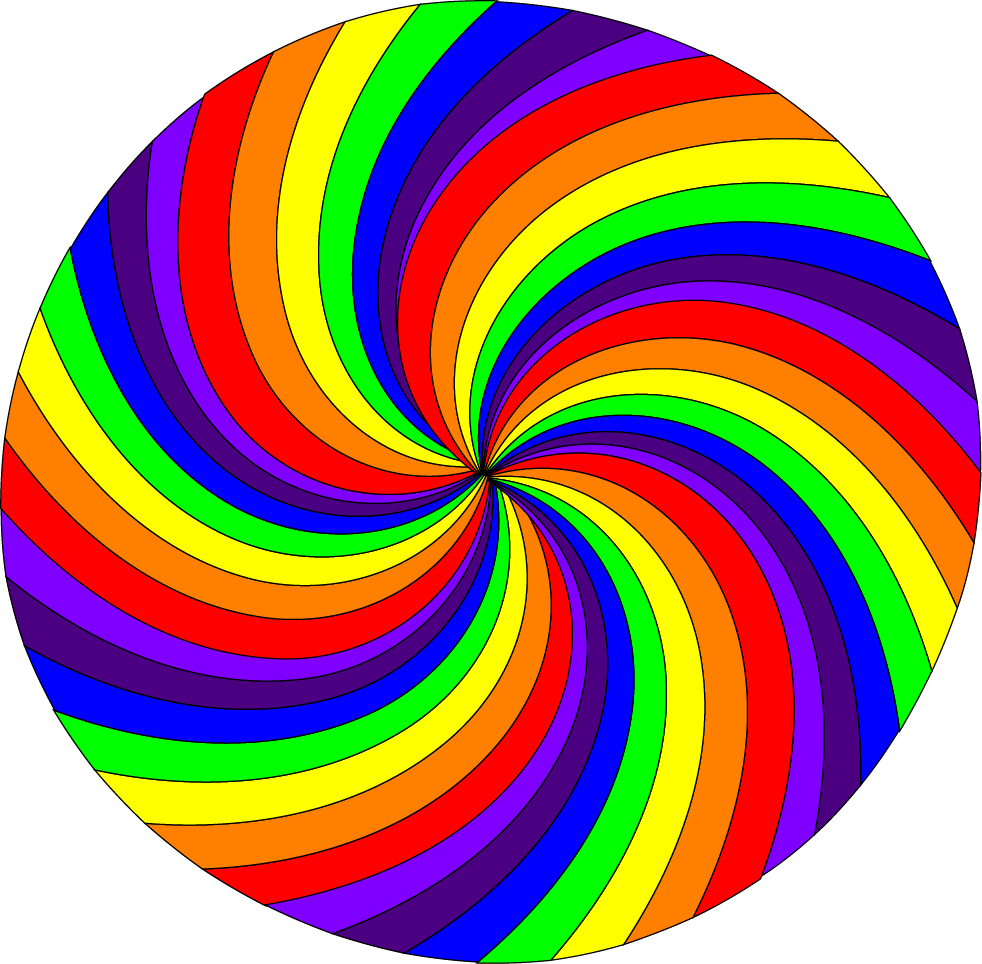
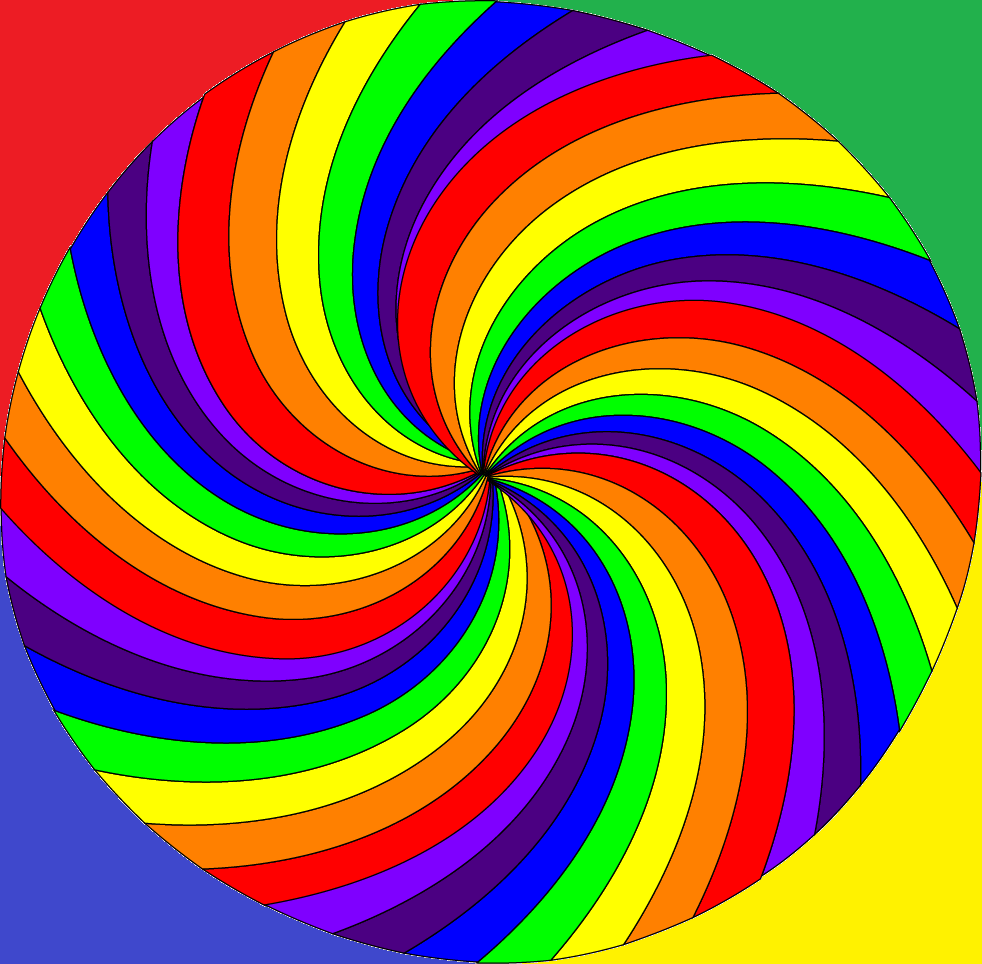
Beta 0.0.5 "Fix for rainbow lag" (also fixed screen002 jump back)
Rainbow vortex being a background image applied in CSS, seems to have caused a visible lag when run online rather than from local file. Note it took quite a bit of trial and improvement tweaking the image and CSS to get it to look roughly the same as it did.

It's now using a file that is just the central part - since a large amount of it was clipped off. I've kept the old file (though with some changes I made to help identify corners on the rotating image), in case it's useful at some point.

Also fixes a bug that was introduced recently - the automatic jump to screen002 didn't check you where still on screen001 - meaning if you where fast to get to screen003 or beyond, screen002 would be shown as well as whatever screen you where on. The code to fix this also means we are now  actually storing the screen being transitioned to during the nextScreen function in the var globals.Screens.current

diff --git a/SRABetaCore.js b/SRABetaCore.js
@@ -52,7 +52,7 @@ var globals = {
 		"W" : false
 	},
 	"Screens": {
-		"current" : "screen001",  //Override on each transition, to keep track
+		"current" : "screen001", //Override each transition, to keep track - globals.Screens.current to access 
 		//Annotated template at bottom!
 		"screen001" : {
 			"prevScreen" : false,  //this is the first screen unless we include for example the landing page
@@ -101,9 +101,10 @@ var globals = {
 	height: 400px;
 */
 function pageStart(){
-	
 	setTimeout(function(){
-	nextScreen("screen001", "screen002");
+		if(globals.Screens.current == "screen001"){  //Only want to show screen002 if automatically if we're still on screen001 at that time, otherwise glitches occur
+			nextScreen("screen001", "screen002");
+		}
 	}, 3000);
 }
 
@@ -119,6 +120,7 @@ function masterNextBtn(){
 function nextScreen(old, newScreen){
 	hideViaClass(old);
 	showViaClass(newScreen);
+	globals.Screens.current = newScreen;
 }
 
 /*I don't think this ever actually gets called now!*/

diff --git a/betabetabeta.html b/betabetabeta.html
@@ -124,7 +124,7 @@
 		<div id="mainContent" class="hidden">
 			<div id="gameArea" >
 				<div id="mockPC"><img src="layingSprawl.png" alt="You"/></div><!-- PC refers to Player Character, we where using the word "yo" but now we're using CSS to set this div to a specific width and height to be square, and setting it to have a red background - to give the effect of a red square (which is handy for doing collision detection-->
-				<div id="viewableArea"></div>
+				<div id="viewableArea"><img src="rainbowVortexInner.png" alt="Rainbow"/></div>
 			</div>
 			<div id="gameBtns" class="hidden"><!-- game buttons -->
 				<span id="highBtns">
@@ -143,7 +143,7 @@
 		
 		<div id="cookiePopupContainer"></div>
 		<div id="footer">
-			<span id="Version">Solar Rage Asylum, Version: Beta 0.0.4 "Story improvements"</span>
+			<span id="Version">Solar Rage Asylum, Version: Beta 0.0.5 "Fix for rainbow lag"</span>
 			<span id="BasicCredit"> - A ProtoStart game lead by Phil Ganney</span>
 		</div>
 	</body>

diff --git a/gameStyles.css b/gameStyles.css
@@ -28,15 +28,25 @@
 	top: 52px;
 
 */
-
+	overflow: clip;
 	width: 230px;
 	height: 230px;
 	border-radius: 115px;
-	background-image: url(rainbowVortex.png);
-	background-position: -380px -340px;
+	/*background-image: url(rainbowVortex.png);
+	background-position: -380px -340px;*/
 	left: 210px;
 	top: 62px;
 	z-index: 1; /* Behind mockPC*/
+}
+
+.rainbowVortex img,
+#viewableArea img{
+	position: relative;
+	left: -100px;
+	top: -76px;
+	border-radius: 115px;
+	/*width: 250px;
+	height: 250px;*/
 }
 
 .pcInHoverbed,

diff --git a/index.html b/index.html
@@ -173,7 +173,7 @@
 		</div>
 		<div id="cookiePopupContainer"></div>
 		<div id="footer">
-			<span id="Version">Solar Rage Asylum, Version: Beta 0.0.4 "Story improvements"</span>
+			<span id="Version">Solar Rage Asylum, Version: Beta 0.0.5 "Fix for rainbow lag"</span>
 			<span id="BasicCredit"> - A ProtoStart game lead by Phil Ganney</span>
 		</div>
 	</body>

diff --git a/mulysaehtotemoclew.html b/mulysaehtotemoclew.html
@@ -82,7 +82,7 @@
 		
 		<div id="cookiePopupContainer"></div>
 		<div id="footer">
-			<span id="Version">Solar Rage Asylum, Version: Beta 0.0.4 "Story improvements"</span>
+			<span id="Version">Solar Rage Asylum, Version: Beta 0.0.5 "Fix for rainbow lag"</span>
 			<span id="BasicCredit"> - A ProtoStart game lead by Phil Ganney</span>
 		</div>
 	</body>
